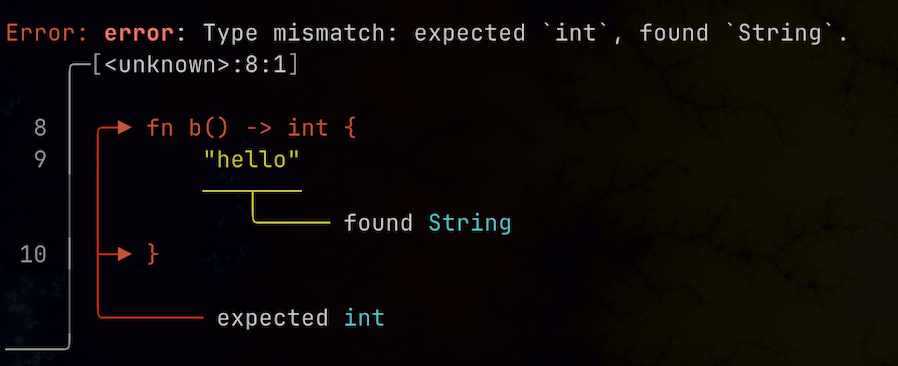
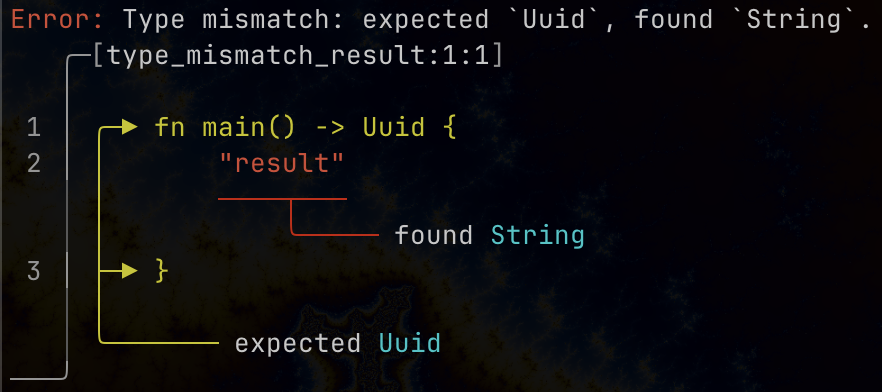
Tests. 🧪

Changed region(s): [[0.0, 0.0, 0.949, 0.9918]]

diff --git a/src/dwarf.rs b/src/dwarf.rs
@@ -226,10 +226,7 @@ impl fmt::Display for DwarfErrorReporter<'_, '_, '_> {
                 expected_span,
                 found_span,
             } => {
-                let msg = format!(
-                    "{}: Type mismatch: expected `{expected}`, found `{found}`.",
-                    Colour::Red.bold().paint("error")
-                );
+                let msg = format!("Type mismatch: expected `{expected}`, found `{found}`.");
 
                 Report::build(ReportKind::Error, self.2, expected_span.start)
                     .with_message(&msg)
@@ -286,11 +283,7 @@ impl fmt::Display for DwarfErrorReporter<'_, '_, '_> {
                 write!(f, "{}", String::from_utf8_lossy(&std_err))
             }
             DwarfError::UnknownType { ty, span } => {
-                let msg = format!(
-                    "{}: Unknown type: `{}`.",
-                    Colour::Red.bold().paint("error"),
-                    ty
-                );
+                let msg = format!("Unknown type: `{}`.", ty);
 
                 let report = Report::build(ReportKind::Error, self.2, span.start)
                     .with_message(&msg)

diff --git a/src/lib.rs b/src/lib.rs
@@ -511,10 +511,7 @@ impl fmt::Display for ChaChaErrorReporter<'_, '_, '_> {
                 // found_span,
                 span,
             } => {
-                let msg = format!(
-                    "{}: Type mismatch: expected `{expected}`, found `{found}`.",
-                    Colour::Red.bold().paint("error")
-                );
+                let msg = format!("Type mismatch: expected `{expected}`, found `{found}`.");
 
                 Report::build(ReportKind::Error, self.2, span.start)
                     .with_message(&msg)
